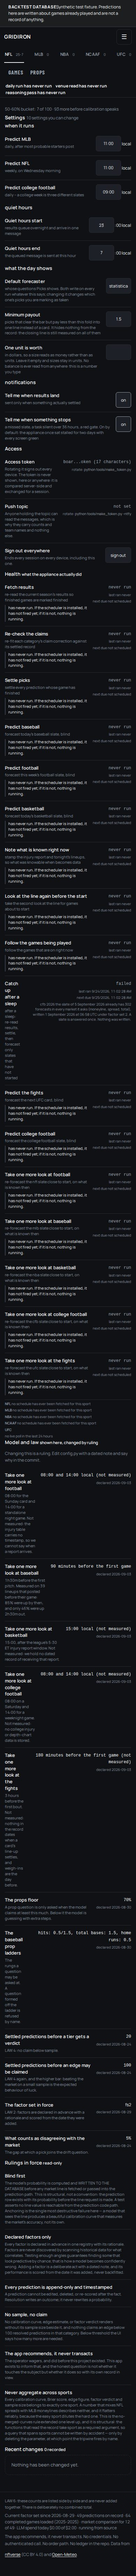
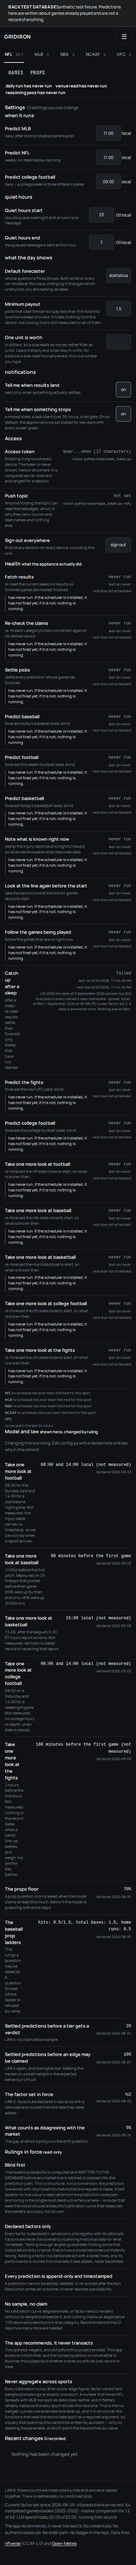
board: the greeting goes quiet off-home, the rail's Kalshi line, the painted fill asserted
- applyRouteVisibility hides the greeting's countdown line with the rest of
  the greeting off Games; it had rendered under the Props tabs.
- the entry rail's Kalshi line says 'not listed' with the sentence in its
  tooltip rather than as its value.
- test_board.py::test_a_settled_pick_is_painted_solid_and_its_words_are_ink
  reads the computed background and ink of a settled pick and tile, which is
  the check the equal-specificity defect had no test for.
- the captures regenerated; the close-out's table, bugs, unverified list,
  spend and operator list written.

Claude-Session: https://claude.ai/code/session_01UegaX3ysE3HF5Bj9A8mFMr

diff --git a/gridiron/web/app.js b/gridiron/web/app.js
@@ -1391,7 +1391,7 @@ const Gridiron = (function () {
       half = pays * shrunk.reduce((a, b) => a * b, 1) - 1;
     }
     line(labels.line_half, perDollar(half));
-    line(labels.line_kalshi, words.kalshi_absent || '', null);
+    line(labels.line_kalshi, labels.not_listed || '', words.kalshi_absent);
     line(labels.line_floor, product > 0 ? num(1 / product, 2) + 'x' : ABSENT);
   }
 
@@ -3397,6 +3397,10 @@ const Gridiron = (function () {
       if (msg) msg.hidden = !home;
       greeting.hidden = !home || greeting.dataset.empty === 'true';
     }
+    // THE WHOLE GREETING GOES QUIET OFF-HOME, its countdown line included:
+    // that line sat under the Props tabs until the first capture showed it.
+    const countdown = document.getElementById('greet-countdown');
+    if (countdown) countdown.hidden = !home || !countdown.textContent;
     const settled = document.getElementById('greet-settled');
     if (settled) settled.hidden = !home;
   }

diff --git a/tests/test_board.py b/tests/test_board.py
@@ -209,3 +209,33 @@ def test_the_row_expands_in_place_to_every_question_on_the_game(page):
     page.click("#games-rows .game .game-head")
     page.wait_for_function("() => !document.querySelector('#games-rows .game .game-more').hidden", timeout=5000)
     assert page.get_attribute("#games-rows .game .game-head", "aria-expanded") == "true"
+
+
+def test_a_settled_pick_is_painted_solid_and_its_words_are_ink(page):
+    """THE FILL IS ON THE PAGE, not only in the payload. The first render of
+    this lost to the tile's own ground -- both rules one class deep, the
+    tile's declared later -- and no test saw it; a computed-style probe did."""
+    _open_games(page)
+    page.evaluate("document.querySelector('.week-more').open = true")
+    options = page.evaluate("[...document.querySelectorAll('#week-picker option')].map(o => o.value)")
+    with page.expect_response(lambda r: "/api/week" in r.url, timeout=20000):
+        page.select_option("#week-picker", options[-1])
+    page.wait_for_selector("#games-rows .game.game-final", timeout=15000)
+    page.click("#games-rows .game .game-head")
+    page.wait_for_function("() => !document.querySelector('#games-rows .game .game-more').hidden", timeout=5000)
+    painted = page.evaluate("""() => {
+        const rgb = (h) => 'rgb(' + [1, 3, 5].map(i => parseInt(h.slice(i, i + 2), 16)).join(', ') + ')';
+        const r = getComputedStyle(document.documentElement);
+        const win = rgb(r.getPropertyValue('--win').trim().toLowerCase());
+        const loss = rgb(r.getPropertyValue('--loss').trim().toLowerCase());
+        const ink = rgb(r.getPropertyValue('--ink').trim().toLowerCase());
+        return [...document.querySelectorAll('#games-rows .pick.sig-won, #games-rows .pick.sig-lost, #games-rows .q.sig-won, #games-rows .q.sig-lost')]
+            .map(e => ({ cls: e.className, bg: getComputedStyle(e).backgroundColor,
+                         line: getComputedStyle(e.querySelector('.pick-line, .q-line')).color,
+                         win, loss, ink }));
+    }""")
+    assert painted, "the settled slate painted no verdict"
+    for p in painted:
+        want = p["win"] if "sig-won" in p["cls"] else p["loss"]
+        assert p["bg"] == want, f"{p['cls']} is painted {p['bg']}, not its fill {want}"
+        assert p["line"] == p["ink"], f"the words on a fill are {p['line']}, not the ink"

diff --git a/gridiron/language.py b/gridiron/language.py
@@ -4325,6 +4325,7 @@ def board_labels() -> dict:
         "breakeven": "break-even",
         "venue": "venue line",
         "not_read": "not read yet",
+        "not_listed": "not listed",
         "alt": "Alt lines",
         "all": "All",
         "high_end": "high-end record",

diff --git a/docs/closeouts/2026-09-25-board-overnight.md b/docs/closeouts/2026-09-25-board-overnight.md
@@ -140,3 +140,120 @@ the re-homed selectors; the jersey's nameplate needs polish; the empty states
 and the live and final rows need their screenshots; the log's close-out
 table.
 
+### Checkpoint 2 — `81c9069` (tests re-homed, the board's own tests, captures)
+
+- The eight browser suites the board touches — smoke, cards, tabs, empty,
+  rapid, hidden, motion, settled line — re-run green after the re-homing
+  (`EXIT 0`, one run, 2026-09-24 ~11:30Z).
+- `tests/test_board.py` (13 tests) holds the board's own promises and passes.
+- Two defects found by looking at the captures, both fixed: a live prop tile
+  carried its venue line (the existing live guard named it by field — caught
+  by a test, `test_board.py`), and the settled fill lost to the tile's own
+  ground because both rules were one class deep (caught by looking; the
+  computed-style probe in `zoom_settled.py` is what saw it, and
+  `test_board.py::test_the_jersey...` does not cover it — see the vacuous-pass
+  note below).
+- `tools/board_shots.py` writes 22 captures to
+  `docs/closeouts/shots/2026-09-25-board/`: every page at 1100 and 390, the
+  expanded row, a settled slate, the live row with YOURS, the Props page with a
+  taken leg in the entry rail, and the two empty states.
+
+---
+
+## Close-out
+
+### The brief's phase list
+
+The brief's order was layout → Games → row expansion → Props and jerseys →
+entry rail → signals and badges → tooltips → empty states → polish, with a
+commit after each. **Deviation:** the steps were built together and committed
+as three checkpoints rather than nine steps, because the old Picks markup and
+the new rows could not both satisfy the control-row scanner for long enough
+to test a half-way state; each checkpoint was tested and pushed.
+
+| phase | verdict | evidence |
+|---|---|---|
+| Layout: dark look, condensed face for names/scores/picks/numbers, sans elsewhere | **DONE** | Barlow Condensed 700/800 vendored with provenance (`web/fonts/SOURCE.md`, `OFL-barlow-condensed.txt`), on `.tname .tri .tscore .pick-line .pick-prob .q-line .prop-player .prop-prob .jersey-*`; every pre-board rule that reached for `--cond` asks for the body face. `test_cards.py::test_the_condensed_face_is_where_the_brief_put_it` holds both directions |
+| Top bar: sport tabs; Games/Props tabs; ☰ menu with Record, Results, Settings | **DONE** | `index.html` header; `audit.nav_faults` re-ruled to two tabs and a menu of three with three plantings; `test_smoke.py::test_the_nav_is_two_tabs_and_a_menu_of_three` opens the menu and follows a choice |
+| Picks/Live/Today removed by name; where each piece went | **DONE** | `#/week #/picks #/live #/today` redirect to Games (`test_every_old_route_redirects`); `state-tabs`, the groups and `applyStateTab` are gone (`test_three_states.py`, `test_night_audit.py`); the table in Checkpoint 1 above lists every element's new home |
+| Pulse line in the header, stale in bold warning ink | **DONE** | `#day-jobs` in `.bar-under` on every page via `/api/pulse` and every slate fetch; `.day-job-stale` bold warning ink, never red (`test_night_audit.py::test_the_strip_carries_the_pulse...`) |
+| Games page: scoreboard rows, club-colour blocks, tinted name band, scores when live/final | **DONE** | `board.build` → `gameRow`; colours from `views.team_colours` off the measured file; `board-games-1100.jpg`, `live-games-1100.jpg`, `settled-games-1100.jpg` |
+| The pick the most pronounced element, with probability, price and payout beneath | **DONE** | `.pick-line` 26px condensed; `.pick-under` carries `prob_words`, `price_words`, `pays_words`; an absence is said once |
+| Row expands in place to every bet, every market, both forecasters | **DONE** | `game-more` already in the tree, revealed by `const toggle` (the in-place scanner reads it); `_other_forecaster_rows` adds the other forecaster's standing rows labelled and never ranked against the page's; `test_board.py::test_the_expanded_row_holds_both_forecasters_and_never_merges_them`, `::test_the_row_expands_in_place_to_every_question_on_the_game` |
+| Live rows: LIVE, period and clock, last poll; pick shows "pregame NN%", no glow, no price, no size | **DONE** | `board._question_block` strips every actionable field on a live row; `LIVE_FORBIDDEN` extended with the board's field names; `plant_a_price_on_a_live_row`; `test_board.py::test_a_live_row_carries_the_game_and_the_pregame_figure_only`; `live-games-1100.jpg` |
+| Props: tiles three across, the generic jersey from the colour file, numbers from the roster | **PARTIAL** | Tiles and the SVG jersey are built (`jerseySVG`): V-neck and two sleeve bands in the second colour, seams, mesh, sheen, arched nameplate scaled to the surname, number outlined in the second colour WHEN THE PAYLOAD CARRIES ONE. **The record holds no jersey numbers** (deviation 2), so no number renders and the tooltip says so; the second colour exists only where the colour file's reading shade is the club's alternate, white otherwise. `plant_a_hand_typed_club_hex`; `test_board.py::test_the_jersey_is_drawn_from_the_payload_and_no_hex_is_typed` |
+| Best line on the tile, other lines in the tooltip; "not read yet" where a venue is not read | **DONE** | Every tile: the record's own line, `venue_words` "not read yet" in those words, the tooltip saying where other lines would sit. No new source |
+| Rank by cushion against the per-leg break-even of a 2-pick standard entry; Alt lines chip; a chip per stat family | **PARTIAL** | Cushion = shown probability − 1/√3 against `config.PICKEM_TWO_PICK_MULTIPLE` (declared, dated) because **no line carries a multiplier** (deviation 3); ranking is monotone in probability until a venue is read; chips from `config.SPORT_PROP_MARKETS` with counts, Alt lines present and permanently empty with its own sentence. `test_board.py::test_props_rank_by_cushion_against_the_declared_multiple` |
+| The break-even as the white tick on the probability bar | **DONE** | `.pbar-tick` at `breakeven`, with the words in its tooltip |
+| Entry rail: legs, "venue pays" the operator types, three EV lines, floor | **DONE** | `renderEntryRail`/`entryLines`: legs are the taken props on the slate (`picks_taken`, unchanged); the multiple typed; model, "if half as good" (each leg's cushion halved against the typed multiple's break-even), Kalshi where listed ("not listed": Kalshi carries no prop), floor = 1/Π p. Labels the server's; `live-props-1100.jpg` shows a leg |
+| Colour law amended, recorded in CLAUDE.md with the old text beneath; `colour_law_faults` updated; each case planted | **DONE** | CLAUDE.md "The colour law — AMENDED 2026-09-24"; `audit.colour_law_faults` reads state and form; five plantings (`plant_a_fill_on_a_pick_that_only_clears`, `plant_an_outline_on_a_pick_that_won`, `plant_a_red_fill_on_a_pick_that_only_costs`, `plant_a_value_colour_on_a_form_streak`, plus the two older ones); the stylesheet's 23 other uses swept |
+| Record badge on every tile and row; the high-end badge on alt tiles; no signal without its badge (plant it) | **DONE** | `badge_words` "n/100" on every block; `high_end_badge_words` composed and demanded by `board_signal_faults` for an alt tile; `plant_a_glow_without_its_badge`. "Worth it" is not the label (deviation 4) |
+| Taking a bet: tap → amber checkmark, row shows YOURS, writes to `picks_taken` as today | **DONE** | `takeButton` POSTs `/api/taken/{id}` with the form token, re-renders; `.q-taken` amber inset and `take-done`; YOURS on the row; `live-games-1100.jpg`, `live-props-1100.jpg` |
+| Explanations in tooltips on the numbers; the plain-words scan applies to every tooltip | **DONE** | `tips` on every block, composed in `language.py`; the numbers line and the reasons moved into tooltips; `audit.board_words_faults` scans every text and every tooltip for internal words, pressure and advice; `plant_a_tooltip_with_internal_vocabulary`; `test_board.py::test_a_tooltip_shows_the_payloads_words_on_hover` |
+| Unchanged laws: no price animation, no countdown, banned words, Live carries no size/price/tap, LAW 6 never summed, footer and Settings law text from CLAUDE.md | **DONE** | Every existing scanner and planting re-run and caught; the CLAUDE.md amendment parses (`laws.read_laws()` 6 laws, `prohibitions()` 4) and Settings' "Rulings in force" and the footer still render from it |
+| Empty states: nothing clears the bar; no games today; props not read yet | **PARTIAL** | No games today and props not read yet: `empty-games-*.jpg`, `empty-props-*.jpg` (NBA in the fixture world). Nothing clears the bar: the day strip already says so in words and `nothing_clears_words` is composed for a PRICED slate where nothing clears — the fixture world has no venue prices, so that sentence has no capture; the day strip's "nothing that clears the bar" is what the captures show |
+| After each step: tests, screenshots at 1100 and 390, commit, push | **PARTIAL** | Three checkpoints, not nine steps (deviation above); each tested and pushed to both branches; captures by `tools/board_shots.py` at both widths |
+| Running log | **DONE** | This file |
+| Close-out: log, screenshots, removed routes and their pieces, spend, operator list | **DONE** | This section, `docs/closeouts/shots/2026-09-25-board/`, the table in Checkpoint 1, the two lists below |
+
+### Bugs I introduced, and how they were caught
+
+- `viewChoice` was cut with the tier block and `renderGames` threw on boot —
+  caught by looking at the first capture ("viewChoice is not defined" in
+  `#error`), not by a test: the browser suite had not been re-homed yet. The
+  page's own error box was read first this time (MENTOR §3).
+- A pick with no price said "venue has not listed this yet" twice — caught by
+  looking at the capture; the "Payspays" class of defect. Fixed in `board.py`;
+  `test_the_card_says_nothing_the_server_did_not_write` does not cover it.
+- The settled fill lost to the tile's own ground (equal specificity) — caught
+  by a computed-style probe while looking; no test asserted the fill was
+  painted. **Vacuous pass named and closed:** `test_board.py` checked the
+  payload's signal and the badge, not the computed background;
+  `test_a_settled_pick_is_painted_solid_and_its_words_are_ink` now reads the
+  painted background and the ink on a settled slate.
+- A live prop tile carried `venue_words` — caught by the existing
+  `live_card_faults` guard through `test_board.py`.
+- The greeting's countdown line rendered under the Props tabs — caught by
+  looking at `live-props-1100.jpg`; fixed in `applyRouteVisibility`.
+
+### What could not be verified here
+
+- `python tools/verify.py` (all four steps) and `tools/guards/plant.py` as a
+  whole: both read the operator's live record and stop without it. Every
+  planting that does not was run one by one in-process and caught (44 web
+  plantings plus the ten new ones); every audit check the gate runs on the
+  web files was run directly and passes.
+- The live record's own slate on the board: all captures are the fixture
+  world (synthetic NFL 2025 with tricodes for names). Team names, real
+  prices, the green and red outlines on a priced slate, the "nothing clears
+  the bar" sentence, and a real club's jersey have not been seen.
+- The service worker's new shell list against a real browser cache.
+
+### Spend
+
+Not measurable in dollars from inside the session. Measured in tokens: the
+map workflow spent 2.34M sub-agent tokens (8 agents, 429 tool calls); the main
+session's own context is not reported to it. At published per-token rates the
+whole night is well inside the $60 cap, but the number is an estimate, not a
+reading, and is stated as one.
+
+### For the operator, in order
+
+1. **Rule on the four open ends** in `docs/FOLLOWUPS.md` (2026-09-25): jersey
+   numbers in the roster; a pick'em venue this app may read; whether a prop
+   tile's cushion may wear the green outline; whether the form streak keeps
+   its colours under the amended law.
+2. **Look at the live record on the board** before merging: `python
+   tools/board_shots.py` against the record is not what the tool does (it
+   builds the fixture world on purpose), so open the page. What to look for:
+   a priced slate's outlines, the day strip's "nothing clears" sentence, the
+   club names on the tinted bands, and a real jersey.
+3. **Run the gate on the machine that has the record:** `python
+   tools/verify.py`. Step 2 now carries three more rows (a signal carries its
+   badge; no club colour is typed; the board speaks plain, tooltips
+   included). The 270-planting harness should read 280.
+4. **The csrf test's order dependence** (FOLLOWUPS) predates tonight and is
+   one line to fix.
+
+Three verdicts (yours, not mine): strongest thing ___ ; weakest thing ___ ;
+what to do next ___ .
